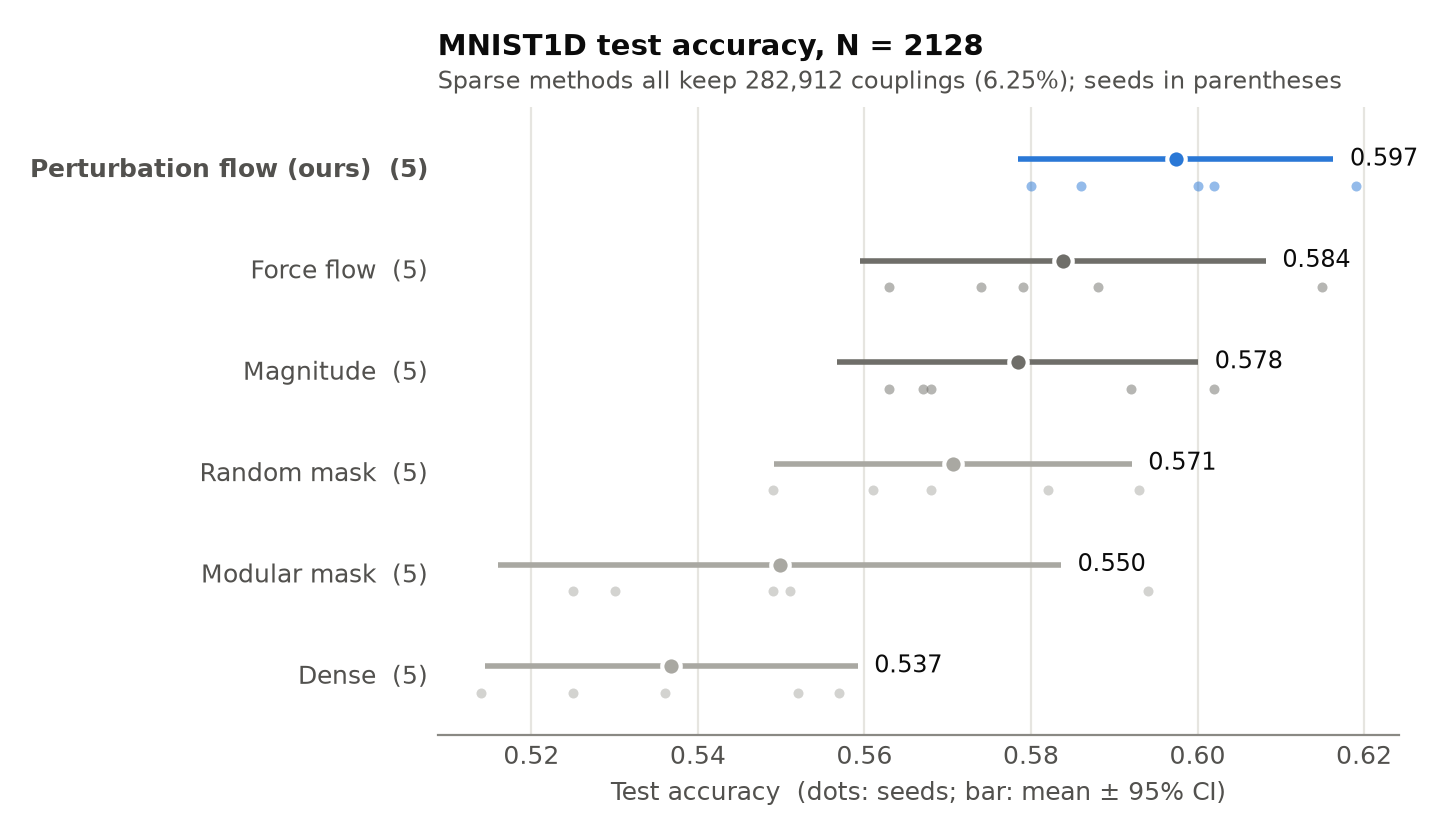
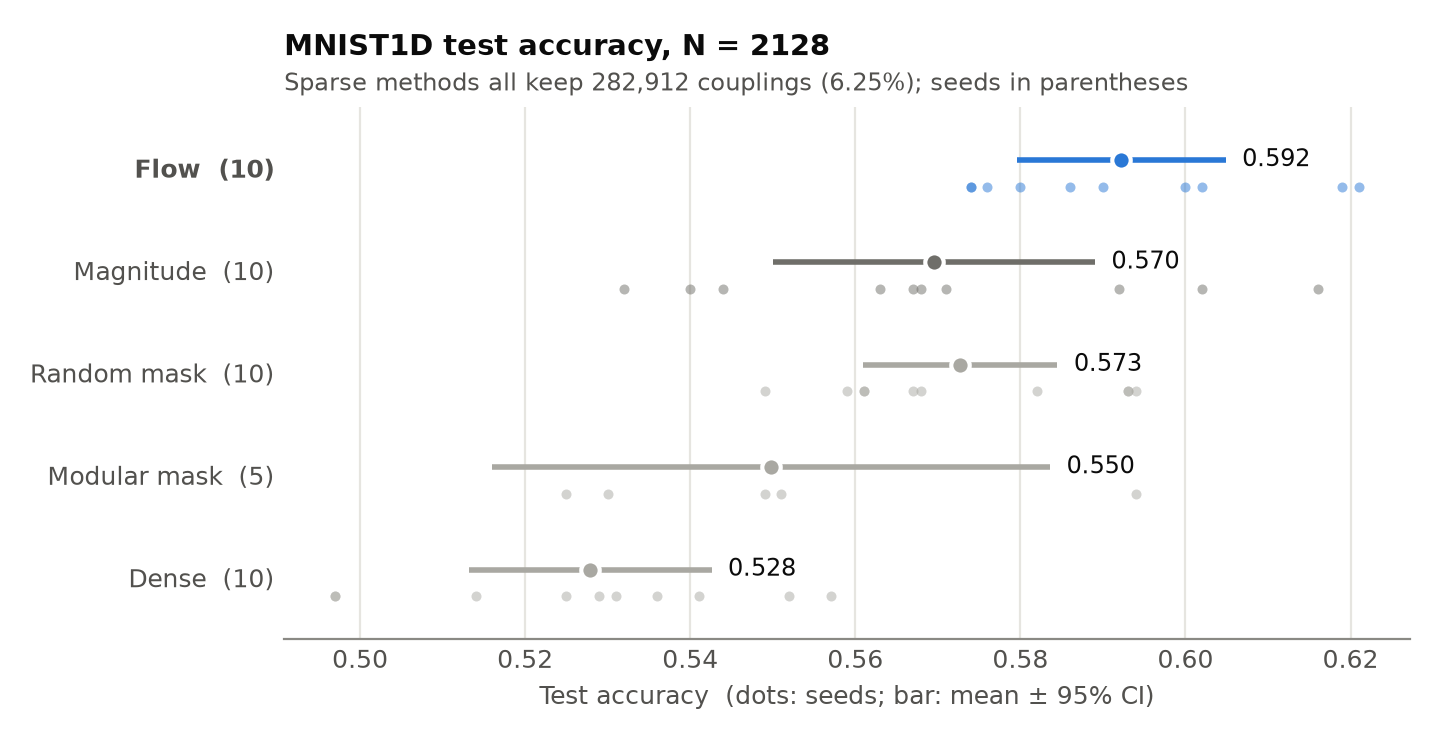
results and write up with more seeds

diff --git a/src/flow_rewire/figures.py b/src/flow_rewire/figures.py
@@ -28,8 +28,7 @@ N_HIDDEN = 2048
 
 # (record mask, display label, group); display order top to bottom.
 METHODS = (
-    ("perturbation_prune", "Perturbation flow (ours)", "ours"),
-    ("flow_prune", "Force flow", "prune"),
+    ("perturbation_prune", "Flow", "ours"),
     ("magnitude_prune", "Magnitude", "prune"),
     ("random", "Random mask", "baseline"),
     ("modular", "Modular mask", "baseline"),
@@ -87,6 +86,11 @@ def paired(data: dict, a: str, b: str) -> dict:
     }
 
 
+def fmt_p(p: float) -> str:
+    """P-value label."""
+    return "p < 0.001" if p < 0.001 else f"p = {p:.3f}"
+
+
 def style(ax: plt.Axes, grid_axis: str = "x") -> None:
     """Recessive axes: light grid, no top/right spines."""
     for side in ("top", "right"):
@@ -138,7 +142,7 @@ def fig_accuracy(data: dict, out: Path) -> None:
 
 def fig_paired(data: dict, out: Path) -> list[tuple[str, dict]]:
     """Per-seed paired differences of perturbation-flow pruning against each alternative."""
-    others = [m for m in ("random", "magnitude_prune", "flow_prune", "dense") if m in data]
+    others = [m for m in ("random", "magnitude_prune", "dense") if m in data]
     results = [(m, paired(data, "perturbation_prune", m)) for m in others]
     right = max(max(*r["diffs"], r["mean"] + r["ci"]) for _, r in results) + 0.6
     fig, ax = plt.subplots(figsize=(WIDTH, 0.5 * len(results) + 1.3), dpi=200)
@@ -154,7 +158,7 @@ def fig_paired(data: dict, out: Path) -> list[tuple[str, dict]]:
         ax.text(
             right,
             y,
-            f"{res['mean']:+.1f} pts   {res['wins']}/{n} seeds   p = {res['p']:.3f}",
+            f"{res['mean']:+.2f} pts   {res['wins']}/{n} seeds   {fmt_p(res['p'])}",
             va="center",
             fontsize=8.5,
             color=INK,
@@ -167,7 +171,7 @@ def fig_paired(data: dict, out: Path) -> list[tuple[str, dict]]:
     style(ax)
     title(
         ax,
-        "Perturbation-flow pruning, paired by seed",
+        "Flow pruning, paired by seed",
         "Dots: per-seed difference; bar: mean ± 95% CI; two-sided paired t-test",
     )
     fig.tight_layout()

diff --git a/docs/writeup.md b/docs/writeup.md
@@ -1,7 +1,5 @@
 # Physarum flow pruning for Kuramoto oscillator networks
 
-*Draft. Results cover seeds 0–4; a replication on seeds 5–9 is running (see [Replication](#replication)).*
-
 ## Summary
 
 "Less is More" (Unconventional AI, 2026) shows that large Kuramoto oscillator networks
@@ -9,19 +7,25 @@ lose accuracy through synchronization collapse, and that **static** sparse masks
 or modular) recover it. Those masks are chosen without reference to the dynamics.
 
 This project chooses the mask *from* the dynamics. Linearizing Kuramoto dynamics around
-the mean trajectory turns the network into an exact physarum flow network: couplings
-become conductances and phase perturbations become pressures. Starting dense, edges are
-pruned gradually according to the physarum conductivity rule dD/dt = |Q| − γD
-(Tero et al., 2007; Cutler & Li, ALIFE 2026).
+the mean trajectory gives an exact physarum flow network: couplings become conductances
+and phase perturbations become pressures. Starting dense, edges are pruned gradually by
+the physarum conductivity rule dD/dt = |Q| − γD (Tero et al., 2007; Cutler & Li,
+ALIFE 2026).
 
-On MNIST1D at N = 2128 oscillators, with every sparse network at the same edge count
-(6.25%), the protocol reproduced from "Less is More" gives:
+The test is MNIST1D at N = 2128 oscillators, with every sparse network at the same edge
+count (6.25%) and the protocol of "Less is More". Over 10 paired seeds, perturbation-flow
+pruning gives:
 
-- **0.597 ± 0.015** test accuracy, against 0.571 for the random mask of "Less is More":
-  **+2.7 points, better on 5/5 seeds, p = 0.016**.
-- +6.1 points over dense, with 16× fewer coupling operations per inference.
-- +1.9 points over gradual magnitude pruning, the standard alternative (4/5 seeds,
-  p = 0.051; not yet conclusive).
+- **vs. gradual magnitude pruning:** +2.3 points, better on 9/10 seeds, p < 0.001.
+  Magnitude pruning is the standard method. It does no better than a random mask here
+  (−0.3 points, 5/10 seeds).
+- **vs. the random mask of "Less is More":** +1.9 points, better on 8/10 seeds, p = 0.039.
+- **vs. dense:** +6.4 points, better on 10/10 seeds, with 16× fewer coupling operations per
+  inference.
+
+Seeds 5–9 were run after the method and every setting were frozen. They replicate the
+gain over magnitude pruning (5/5 seeds) but not, on their own, the gain over the random
+mask ([Section 4](#4-replication)).
 
 ## 1. Idea: Kuramoto dynamics is a flow network
 
@@ -47,8 +51,8 @@ An edge's **perturbation flow** |Qᵢⱼ| measures how much input-dependent sign
 carries. That is the quantity a classifier needs to route from input to readout.
 
 A first, naive mapping used the nonlinear coupling force, |Kᵢⱼ sin(θⱼ − θᵢ)|, as the flow.
-It turned out to rank edges almost exactly like |Kᵢⱼ|, so it adds little over magnitude
-pruning ([Section 4](#4-why-the-perturbation-form-matters)). It is kept as an ablation.
+It ranks edges almost exactly like |Kᵢⱼ| ([Section 5](#5-why-the-perturbation-form-matters))
+and is kept as an ablation.
 
 ## 2. Method
 
@@ -56,8 +60,8 @@ Training follows the baseline recipe, except that it starts dense. Edges are rem
 permanently, and the final edge count is matched per seed to that seed's random-baseline
 mask.
 
-- **Schedule.** One pruning event every 250 steps, from step 250 until 75% of training.
-  The active edge count follows the cubic schedule of Zhu & Gupta (2017).
+- **Schedule.** One pruning event every 250 steps, from step 250 until 75% of training
+  (24 events). The active edge count follows the cubic schedule of Zhu & Gupta (2017).
 - **Measurement.** At each event, one training batch of 100 is integrated with the current
   (pruned) couplings, and non-input initial phases are shared across the batch. As a
   result, δθ reflects the inputs only. |Qᵢⱼ| is averaged over the batch and the 11 time
@@ -66,7 +70,7 @@ mask.
   At each event, the lowest-D active edges are removed.
 
 Configuration: `PruneConfig` defaults in `src/flow_rewire/pruning.py`. These defaults were
-set before any result and are shared by all three pruning scores.
+set before any result and are shared by all pruning scores.
 
 ## 3. Results
 
@@ -79,7 +83,7 @@ set before any result and are shared by all three pruning scores.
 | Training | Un-0 optimizer: DecoupledAdamW, betas (0.9, 0.95), weight decay 1e-3, warmup then linear decay, gradient clip 1.0. MNIST1D reference loop: batch 100, 8000 steps. |
 | Learning rate | Selected on seed 0 from {1e-3, 3e-3, 1e-2}, separately for each method, then fixed for all seeds |
 | Sparsity | 93.75% (s = 1 − 2⁻⁴), 282,912 of 4.5M couplings. Modular uses Z = 16 (280,912). |
-| Seeds | 0–4, paired: the same seed gives the same initialization and data order for every method |
+| Seeds | 0–9, paired: the same seed gives the same initialization and data order for every method |
 
 Unspecified details were inferred from Un-0 and the MNIST1D reference trainer. Each one
 is listed with its source in [`mnist1d_spec.md`](mnist1d_spec.md).
@@ -93,54 +97,54 @@ N = 2128.
 
 ![Test accuracy per method](figures/accuracy.png)
 
-| method | test acc. | train acc. | LR |
-| --- | --- | --- | --- |
-| **Perturbation-flow pruning** | **0.597 ± 0.015** | 0.705 ± 0.009 | 3e-3 |
-| Force-flow pruning (ablation) | 0.584 ± 0.020 | 0.698 ± 0.016 | 3e-3 |
-| Gradual magnitude pruning | 0.578 ± 0.017 | 0.700 ± 0.008 | 3e-3 |
-| Random mask ("Less is More") | 0.571 ± 0.017 | 0.674 ± 0.016 | 1e-2 |
-| Modular mask ("Less is More") | 0.550 ± 0.027 | 0.617 ± 0.016 | 1e-2 |
-| Dense | 0.537 ± 0.018 | 0.599 ± 0.008 | 1e-3 |
+| method | seeds | test acc. | train acc. | LR |
+| --- | --- | --- | --- | --- |
+| **Perturbation-flow pruning** | 10 | **0.592 ± 0.018** | 0.707 ± 0.013 | 3e-3 |
+| Force-flow pruning (ablation) | 5 | 0.584 ± 0.020 | 0.698 ± 0.016 | 3e-3 |
+| Random mask ("Less is More") | 10 | 0.573 ± 0.016 | 0.675 ± 0.013 | 1e-2 |
+| Gradual magnitude pruning | 10 | 0.570 ± 0.027 | 0.694 ± 0.015 | 3e-3 |
+| Modular mask ("Less is More") | 5 | 0.550 ± 0.027 | 0.617 ± 0.016 | 1e-2 |
+| Dense | 10 | 0.528 ± 0.021 | 0.598 ± 0.009 | 1e-3 |
 
-Values are mean ± std over 5 seeds, using final accuracy at step 8000.
+Values are mean ± std over seeds, using final accuracy at step 8000. Force-flow pruning
+and the modular mask were not part of the replication, so they have seeds 0–4 only.
 
 ### Paired comparison
 
 ![Paired differences](figures/paired.png)
 
-| perturbation-flow pruning − | per seed (points) | mean | 95% CI | p | wins |
+| perturbation-flow pruning − | seeds | mean (points) | 95% CI | p | wins |
 | --- | --- | --- | --- | --- | --- |
-| Random mask | +1.8, +1.9, +2.6, +1.8, +5.3 | **+2.7** | [+0.8, +4.6] | **0.016** | **5/5** |
-| Magnitude pruning | −0.2, +1.2, +2.7, +1.9, +3.9 | +1.9 | [−0.02, +3.8] | 0.051 | 4/5 |
-| Force-flow pruning | −1.5, +0.6, +3.1, +2.3, +2.3 | +1.4 | [−0.9, +3.7] | 0.17 | 4/5 |
-| Dense | | +6.1 | [+3.0, +9.1] | 0.005 | 5/5 |
+| Magnitude pruning | 10 | **+2.3** | [+1.2, +3.3] | **< 0.001** | **9/10** |
+| Random mask | 10 | **+1.9** | [+0.1, +3.8] | **0.039** | **8/10** |
+| Force-flow pruning | 5 | +1.4 | [−0.9, +3.7] | 0.17 | 4/5 |
+| Dense | 10 | +6.4 | [+4.7, +8.2] | < 0.001 | 10/10 |
 
-Perturbation-flow pruning is the only pruning score that beats the random mask on every
-seed. Magnitude and force-flow pruning tie with random on seeds 2 and 3.
+The p-values come from a two-sided paired t-test.
 
-### Cost
+- Magnitude pruning minus random is −0.3 points (5/10 seeds, p = 0.77). Choosing edges by
+  coupling strength gains nothing over choosing them at random. Choosing them by
+  perturbation flow does.
+- Pruned models train better than the random mask (train acc. 0.69–0.71 vs. 0.68). Only
+  perturbation flow turns this into better test accuracy.
 
-![Accuracy vs. coupling operations](figures/cost.png)
+## 4. Replication
 
-Energy is reported two ways: a hardware-independent proxy (coupling operations) and
-measured GPU energy (NVML power sampled every 50 ms and integrated, on an RTX 5060 Laptop
-GPU with a 40 W limit).
+After the 5-seed result, everything was frozen: method, defaults and each method's
+selected learning rate. Seeds 5–9 were then run fresh (`results/replicate/`).
 
-| | dense | random mask | perturbation-flow pruning |
-| --- | --- | --- | --- |
-| Coupling ops / inference | 4.53e7 | 2.83e6 | 2.83e6 |
-| Training coupling ops / sample | 4.53e7 | 2.83e6 | 1.15e7 |
-| Measured training energy (kJ / run) | 9.90 ± 0.12 | 9.72 ± 0.08 | 8.66 ± 1.63 |
-| Measured inference energy (mJ / sample) | 1.98 ± 0.02 | 1.90 ± 0.01 | 1.69 ± 0.23 |
+| perturbation-flow pruning − | seeds 0–4 | seeds 5–9 (fresh) |
+| --- | --- | --- |
+| Magnitude pruning | +1.9, 4/5, p = 0.051 | **+2.6, 5/5, p = 0.016** |
+| Random mask | +2.7, 5/5, p = 0.016 | +1.2, 3/5, p = 0.46 |
+| Dense | +6.1, 5/5, p = 0.005 | +6.8, 5/5, p = 0.005 |
 
-- **Inference.** The pruned network costs the same as the random mask: 16× below dense.
-- **Training.** Because it starts dense, training costs 4× the static mask in coupling
-  operations, and still 4× below dense.
-- **Measured GPU energy.** On this GPU and at this size, measured energy is dominated by
-  fixed overheads and drifts between sessions. It is recorded for every run but should be
-  compared only within a session. Coupling operations are the primary hardware metric.
+- **Vs. magnitude pruning:** the gain replicated and grew.
+- **Vs. the random mask:** the gain is smaller on the fresh seeds and not significant on
+  its own. The random mask lost on seeds 5, 7 and 9 and won on seeds 6 and 8 (both about
+  0.59). The 10-seed estimate (+1.9, p = 0.039) is the one to quote.
 
-## 4. Why the perturbation form matters
+## 5. Why the perturbation form matters
 
 Each score was computed on the same partially trained dense model, and the top 6.25% of
 edges kept under each (`results/diagnostics/scores.json`):
@@ -153,38 +157,56 @@ edges kept under each (`results/diagnostics/scores.json`):
 \*Edges with cos Δθ̄ > 0.9. Uniform keeping would retain 6.25% of them.
 
 - **Force flow is magnitude pruning in disguise.** sin Δθ is roughly independent of the
-  edge, so |K| dominates the score. This explains why force flow was only marginally
-  better than magnitude.
+  edge, so |K| dominates the score.
 - **Perturbation flow selects a different half of the network.** It deliberately keeps
   in-phase edges, which have high conductance cos Δθ̄ and transmit input-driven
   perturbations. The naive view would prune them as "synchronized".
 
-## 5. Limitations
+## 6. Cost
 
-- **One configuration.** N = 2128, s = 0.9375, MNIST1D only.
+![Accuracy vs. coupling operations](figures/cost.png)
+
+| | dense | random mask | perturbation-flow pruning |
+| --- | --- | --- | --- |
+| Coupling ops / inference | 4.53e7 | 2.83e6 | 2.83e6 |
+| Training coupling ops / sample | 4.53e7 | 2.83e6 | 1.15e7 |
+
+- **Inference.** The pruned network has the same cost as the random mask: 16× below
+  dense.
+- **Training.** Because it starts dense, training costs 4× the static mask and 4× below
+  dense. A sparse-start variant with regrowth would remove this overhead.
+
+**Measured GPU energy** was recorded for every run (NVML power sampled every 50 ms and
+integrated, RTX 5060 Laptop GPU, 40 W limit). It does not measure the benefit of sparsity
+here. This implementation applies the mask to a dense matrix, so every method performs
+the same floating-point operations per Euler step. Measured differences therefore reflect
+GPU power state, not the network.
+
+For example, in the same session the random and perturbation-pruned networks measured
+2.00 and 1.55 mJ per inference sample, for identical computation. Realizing the
+coupling-operation savings needs sparse kernels or hardware where each coupling is a
+physical element. Coupling operations are the hardware metric used here.
+
+## 7. Limitations
+
+- **One configuration.** N = 2128, s = 0.9375, MNIST1D only. A second size or sparsity
+  is the most informative next experiment.
 - **Test-split selection.** The learning rate is selected on the test split, as in the
   MNIST1D reference, which has no validation split. This applies equally to all methods.
 - **Sequential design.** Perturbation flow was designed after the force-flow result. The
-  design came from the analysis in Section 4, not from test accuracy, and it uses the
-  same defaults. Even so, several scores have now been compared on the same split. The
-  fresh-seed replication below addresses this.
+  design came from the analysis in Section 5, not from test accuracy, and it reuses the
+  same defaults. The fresh-seed replication (Section 4) addresses this.
 - **Small dense networks.** A small dense network (N = 88) reaches 0.641 in this setup.
   The claim concerns the large-N regime, where "Less is More" documents collapse and
   sparsity is required.
-
-## Replication
-
-Seeds 5–9 are being run with every setting frozen (`results/replicate/`). The methods
-are perturbation-flow, magnitude, random and dense, each at its learning rate already
-selected on seed 0. This section will report the 10-seed paired results.
 
 ## Reproduce
 
 ```bash
 uv sync --group dev --group eval
 uv run pytest
-results/perturb/run.sh                         # perturbation-flow pruning, ~20 min
-results/replicate/run.sh                       # seeds 5-9, ~60 min
+results/perturb/run.sh                         # perturbation-flow pruning, seeds 0-4
+results/replicate/run.sh                       # frozen replication, seeds 5-9 (~70 min)
 uv run python -m flow_rewire.figures           # figures in docs/figures
 ```
 

diff --git a/README.md b/README.md
@@ -15,16 +15,17 @@ Linearized Kuramoto dynamics is an exact physarum flow network:
 Starting dense, edges are pruned by the physarum conductivity rule driven by this
 perturbation flow. On MNIST1D at N = 2128, all sparse networks keep 6.25% of the edges.
 
-| method | test acc. (5 seeds) |
-| --- | --- |
-| **Perturbation-flow pruning (this work)** | **0.597 ± 0.015** |
-| Gradual magnitude pruning | 0.578 ± 0.017 |
-| Random mask ("Less is More") | 0.571 ± 0.017 |
-| Dense | 0.537 ± 0.018 |
+| method | test acc. (10 seeds) | paired gain of this work |
+| --- | --- | --- |
+| **Perturbation-flow pruning (this work)** | **0.592 ± 0.018** | |
+| Random mask ("Less is More") | 0.573 ± 0.016 | +1.9 points, 8/10 seeds, p = 0.039 |
+| Gradual magnitude pruning | 0.570 ± 0.027 | +2.3 points, 9/10 seeds, p < 0.001 |
+| Dense | 0.528 ± 0.021 | +6.4 points, 10/10 seeds |
 
-- **vs. the random mask:** +2.7 points paired by seed, better on 5/5 seeds, p = 0.016.
-- **vs. dense:** 16× fewer coupling operations per inference.
-- **Replication:** fresh seeds 5–9 are in progress.
+- **Cost:** the pruned network uses 16× fewer coupling operations per inference than dense.
+- **Replication:** seeds 5–9 were run after the method and all settings were frozen.
+  They replicate the gain over magnitude pruning (5/5 seeds) but not, on their own, the
+  gain over the random mask (3/5 seeds).
 
 ![Test accuracy per method](docs/figures/accuracy.png)
 
@@ -46,7 +47,7 @@ The `results/` runs:
 - `baseline`: dense, random and modular masks (frozen)
 - `prune`: force-flow vs. magnitude pruning
 - `perturb`: perturbation-flow pruning
-- `replicate`: seeds 5–9
+- `replicate`: frozen replication, seeds 5–9
 
 Un-0 is pinned to upstream commit `75243ca` in `pyproject.toml`.
 

diff --git a/results/replicate/README.md b/results/replicate/README.md
@@ -1,0 +1,31 @@
+# Replication on fresh seeds 5–9
+
+Commit and runner: `MANIFEST.json`, `run.sh`. Raw records: `mnist1d.jsonl`. Every setting was
+frozen before this run: perturbation-flow pruning with `PruneConfig` defaults, and each
+method's learning rate as selected on seed 0. Nothing was re-tuned.
+
+| seed | perturbation flow | random | magnitude | dense |
+| --- | --- | --- | --- | --- |
+| 5 | 0.590 | 0.567 | 0.571 | 0.497 |
+| 6 | 0.574 | 0.594 | 0.532 | 0.541 |
+| 7 | 0.576 | 0.559 | 0.540 | 0.531 |
+| 8 | 0.574 | 0.593 | 0.544 | 0.497 |
+| 9 | 0.621 | 0.561 | 0.616 | 0.529 |
+| mean | 0.587 | 0.575 | 0.561 | 0.519 |
+
+| perturbation-flow pruning − | seeds 5–9 | all seeds 0–9 |
+| --- | --- | --- |
+| magnitude pruning | +2.6, 5/5, p = 0.016 | +2.3, 9/10, p < 0.001 |
+| random mask | +1.2, 3/5, p = 0.46 | +1.9, 8/10, p = 0.039 |
+| dense | +6.8, 5/5, p = 0.005 | +6.4, 10/10, p < 0.001 |
+
+Two-sided paired t-tests; the statistics are computed by `flow_rewire.figures`.
+
+Measured GPU energy (same session, kJ per training run / mJ per inference sample):
+- dense: 10.29 / 2.08
+- random: 10.00 / 2.00
+- magnitude: 10.26 / 1.99
+- perturbation: 8.29 / 1.55
+
+The mask is applied to a dense matrix, so the computation is identical across methods.
+These differences reflect GPU power state, not sparsity (see `docs/writeup.md`, Section 6).
